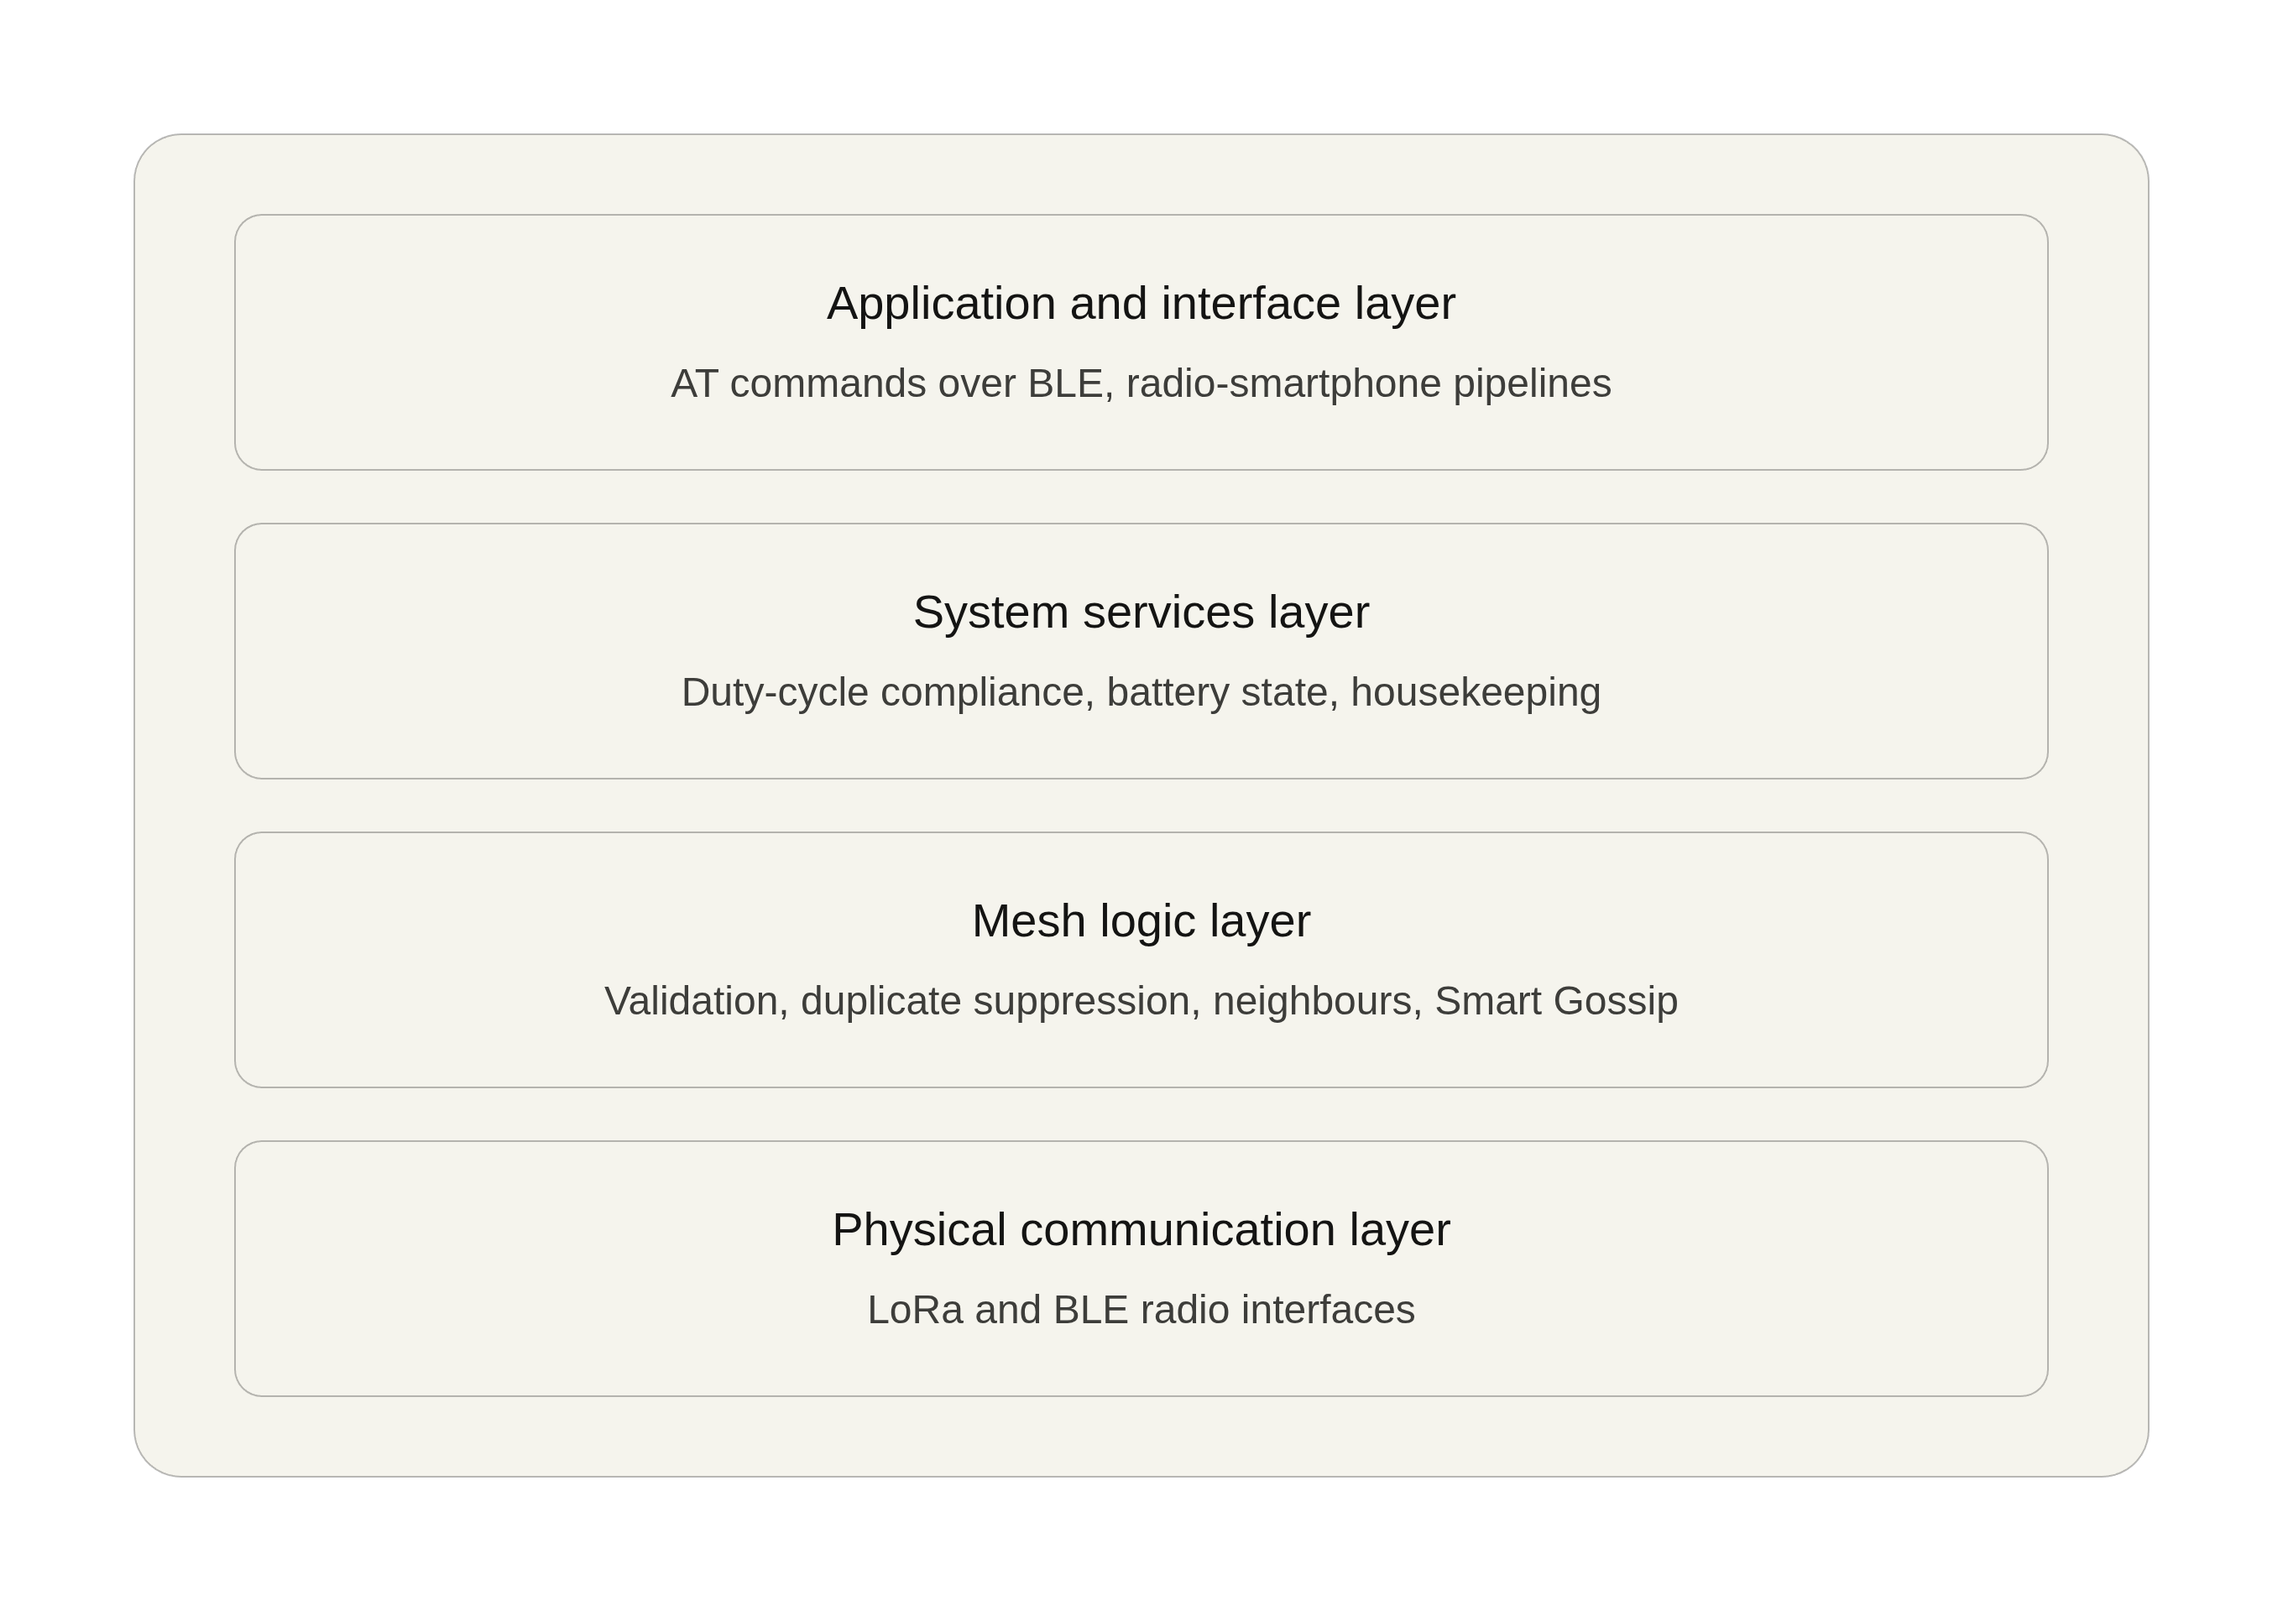
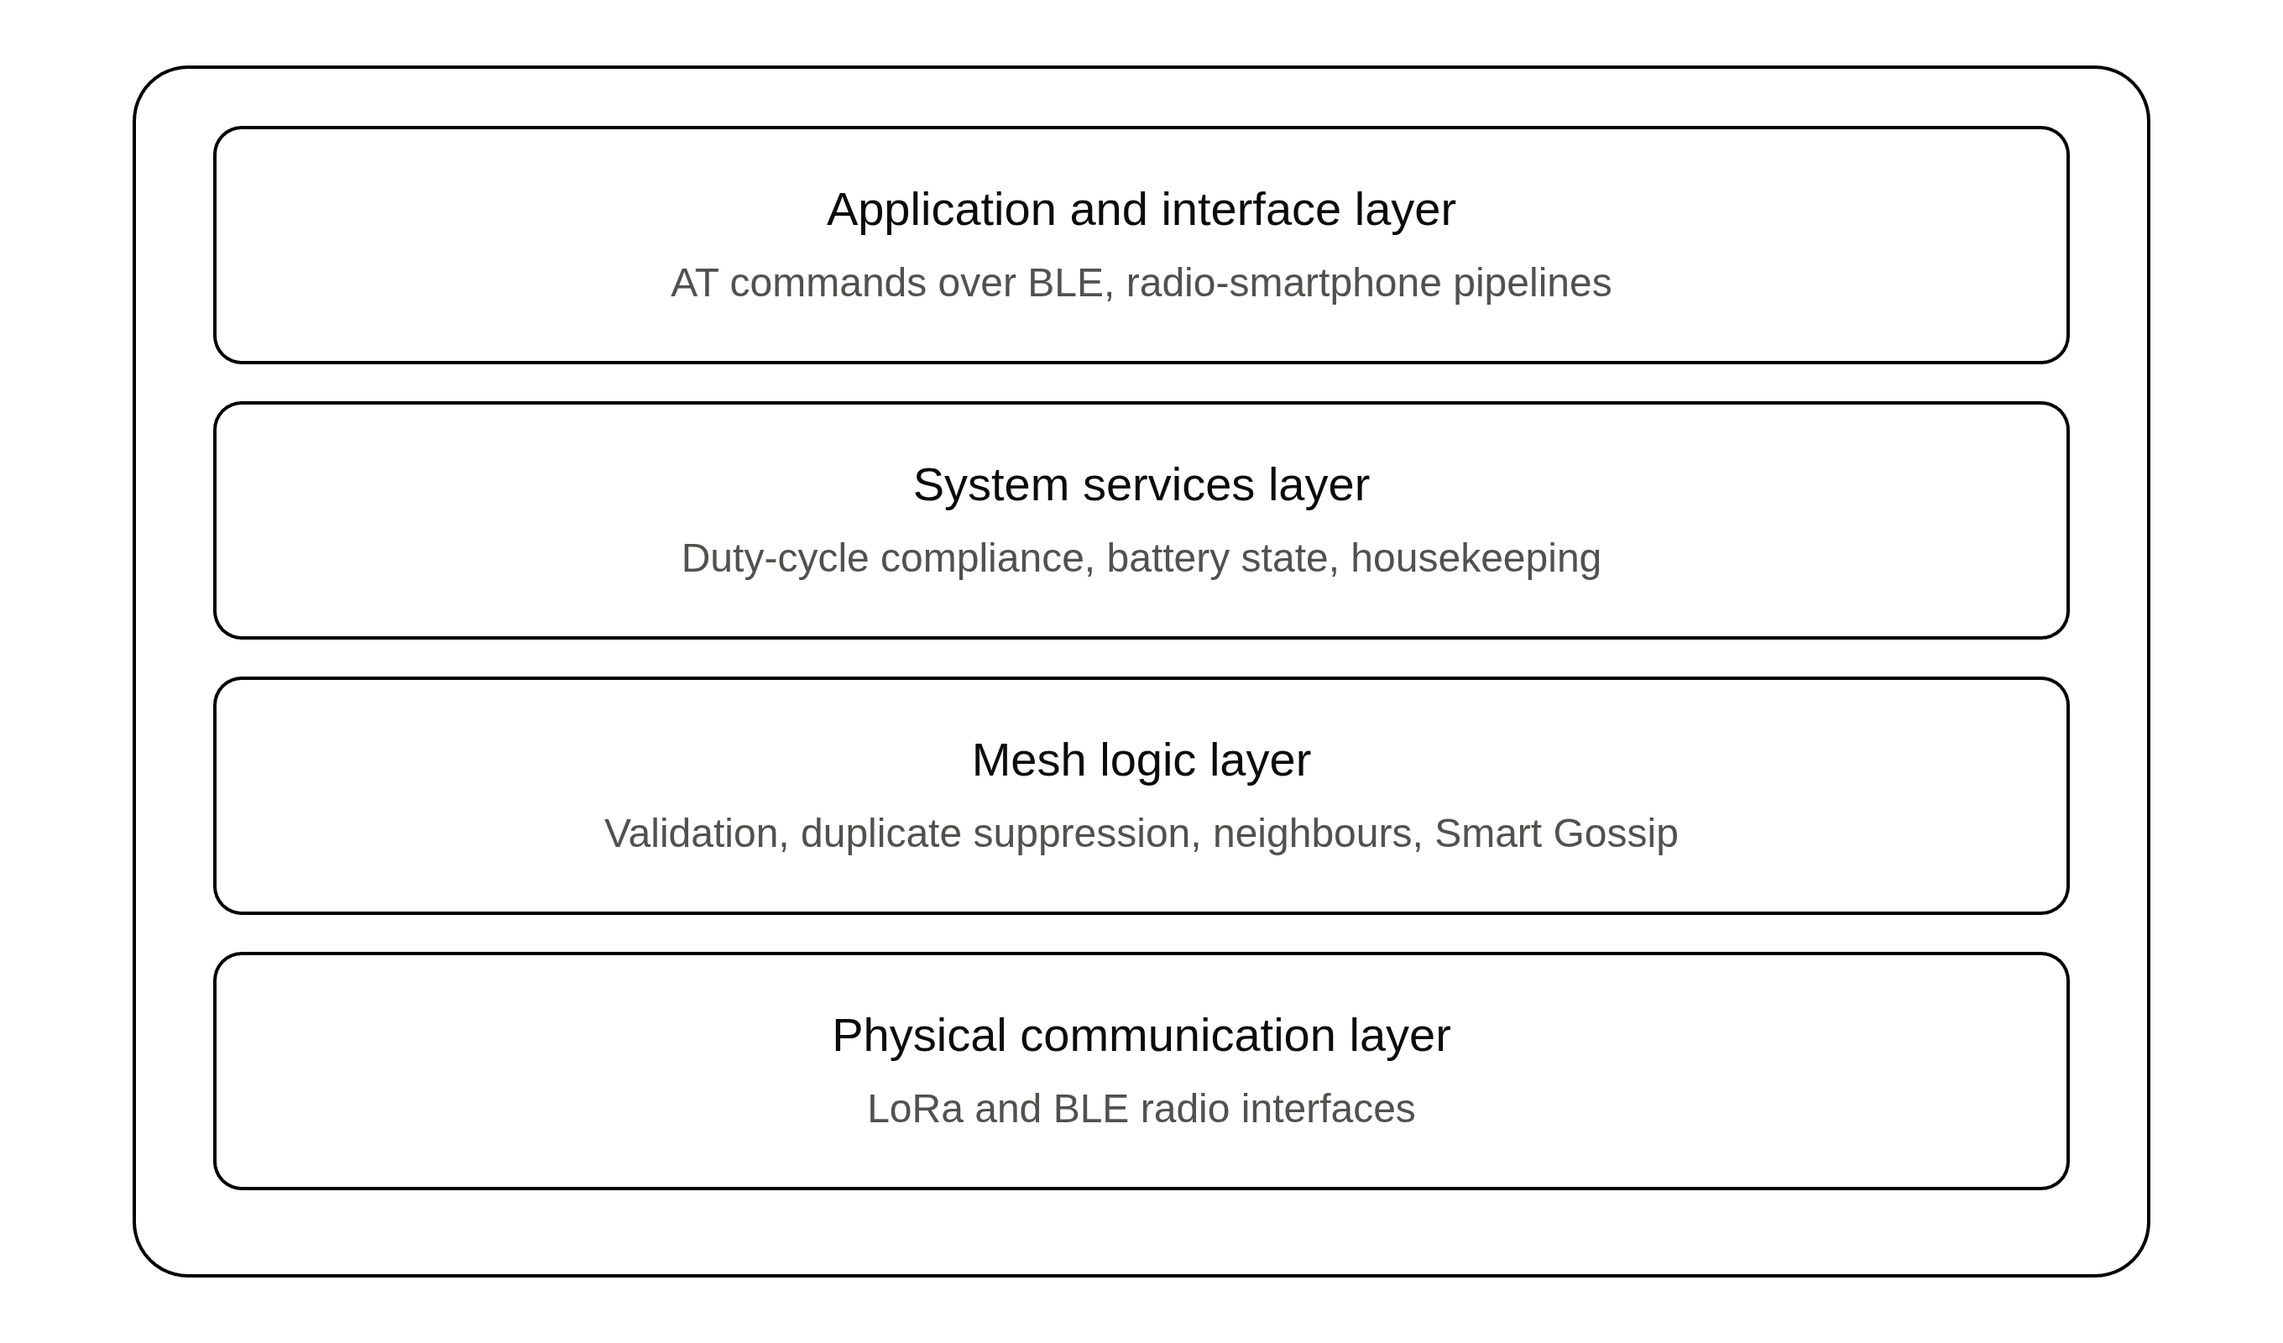
Changed the fw_stack image and added another link to the git repo

diff --git a/tfe.tex b/tfe.tex
@@ -1341,7 +1341,10 @@ neighbour management, and the Smart Gossip forwarding algorithm. Thirdly, the
 \emph{System Services Layer} handles regulatory duty-cycle compliance, battery
 state estimation, and periodic housekeeping. Finally, the \emph{Application and Interface
 Layer} exposes an AT-command interface over BLE to the companion mobile application
-and manages the bidirectional data pipelines between radio and smartphone.
+and manages the bidirectional data pipelines between radio and smartphone. Figure~\ref{fig:fw_stack} illustrates the layered architecture.
+
+
+\img{images/firmware_layered_architecture.png}{Firmware layer diagram.}{0.80}{fw_stack}
 
 Eight FreeRTOS tasks are created at boot time. Four are pinned to Core~0, dedicated
 to all radio activity; four are pinned to Core~1, which handles BLE, pipeline
@@ -1358,9 +1361,9 @@ processing, and power management (Table~\ref{tab:fw_tasks}).
         \texttt{vSendDiscoveryTask} & 0 & 1 & Periodic DISCOVERY beacon injection \\
         \texttt{vNeighborCheckTask} & 0 & 1 & Neighbour-table timeout eviction \\
         \texttt{vBLETxTask}         & 1 & 1 & BLE GATT notification drain \\
-        \texttt{BLE2LoRaTask}       & 1 & 1 & AT command parser; upstream packet injector \\
-        \texttt{LoRa2BLETask}       & 1 & 1 & Mesh receive state machine \\
-        \texttt{PowerTask}          & 1 & 1 & Adaptive CPU frequency scaling \\
+        \texttt{vBLE2LoRaTask}       & 1 & 1 & AT command parser; upstream packet injector \\
+        \texttt{vLoRa2BLETask}       & 1 & 1 & Mesh receive state machine \\
+        \texttt{vPowerTask}          & 1 & 1 & Adaptive CPU frequency scaling \\
         \bottomrule
     \end{tabular}
     \caption{FreeRTOS task inventory.}
@@ -1381,7 +1384,6 @@ Four queues provide all inter-layer communication:
 All queues have a depth of ten items and are statically allocated at initialisation.
 
 
-\img{images/firmware_layered_architecture.png}{Firmware layer diagram.}{0.85}{fw_stack}
 
 
 \section{Physical Communication Layer}
@@ -1474,9 +1476,7 @@ state-machine transitions.
 Every frame transmitted over the LoRa channel consists of a fixed four-byte
 \texttt{A3MESH\_header\_t} followed by a variable-length \texttt{A3MESH\_packet\_t}.
 The header carries a one-byte protocol version, a one-byte frame type
-(\texttt{a3mesh\_msg\_type\_t}), and a two-byte packet length as shown in Table~\ref{tab:fw_header_fields}, while the packet
-structure itself is declared \texttt{\_\_attribute\_\_((packed))} to match the
-on-wire layout exactly; its fields are listed in Table~\ref{tab:fw_packet_fields}.
+(\texttt{a3mesh\_msg\_type\_t}), and a two-byte packet length as shown in Table~\ref{tab:fw_header_fields}. 
 
 \begin{table}[htbp]
     \centering
@@ -1492,6 +1492,10 @@ on-wire layout exactly; its fields are listed in Table~\ref{tab:fw_packet_fields
     \caption{Fields of the \texttt{A3MESH\_header\_t} wire structure.}
     \label{tab:fw_header_fields}
 \end{table}
+
+\newpage
+While the packet structure itself is declared \texttt{\_\_attribute\_\_((packed))} to match the
+on-wire layout exactly. Regarding to its fields are listed in Table~\ref{tab:fw_packet_fields}.
 
 \begin{table}[htbp]
     \centering
@@ -2720,8 +2724,7 @@ AliExpress and hand-soldered; it is therefore absent from the JLCPCB LCSC BOM.\\
 \chapter{Source Code Repositories}
 \label{ch:appendix_repos}
 
-All source code produced for this project is hosted on GitHub under the user
-\texttt{alcaaron}. The LaTeX manuscript itself is the root repository and
+All source code produced for this project is hosted on GitHub: \url{https://github.com/alcaaron/tfg_manuscript.git}. The LaTeX manuscript itself is the root repository and
 contains the remaining four artefacts as git submodules, so that a single
 \texttt{git clone -{}-recurse-submodules} retrieves the complete project tree.
 The top-level layout is shown below.
